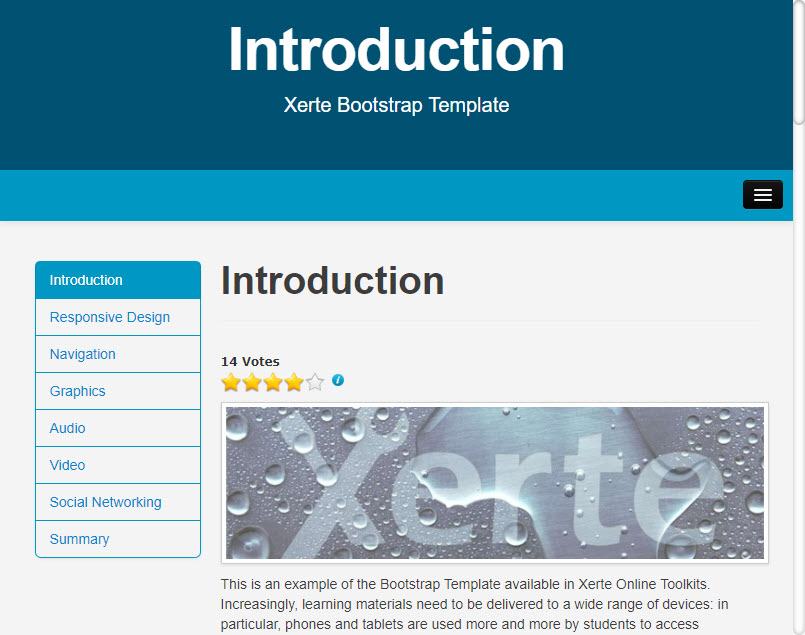
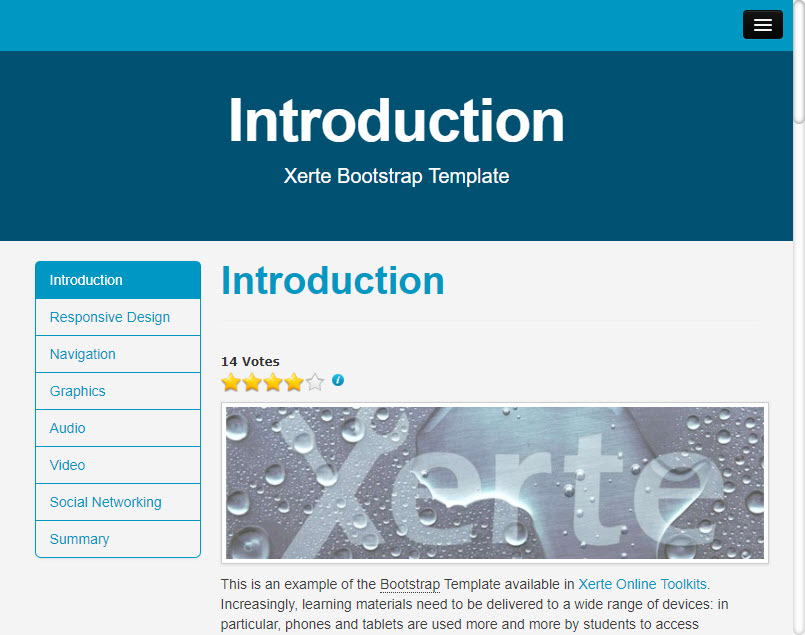
Change h1 in header back to white.

diff --git a/themes/site/bluegrey/bluegrey.css b/themes/site/bluegrey/bluegrey.css
@@ -128,7 +128,7 @@ a:hover {
   background-image: linear-gradient(3deg, #005172 0%, #005172 100%); }
 
 .jumbotron h1 {
-  color: #0098C3; }
+  color: #ffffff; }
 
 .navbar-inverse .navbar-inner {
   background-color: #0098C3;

diff --git a/themes/site/bluegrey/bluegrey.scss b/themes/site/bluegrey/bluegrey.scss
@@ -48,7 +48,7 @@ a:hover{
 }
 
 .jumbotron h1 {
-  color: $brightcolor;
+  color: $whiteorlightest;
 }
 //* --NAVBAR-------------------------------------------------------------- */
 .navbar-inverse .navbar-inner {
